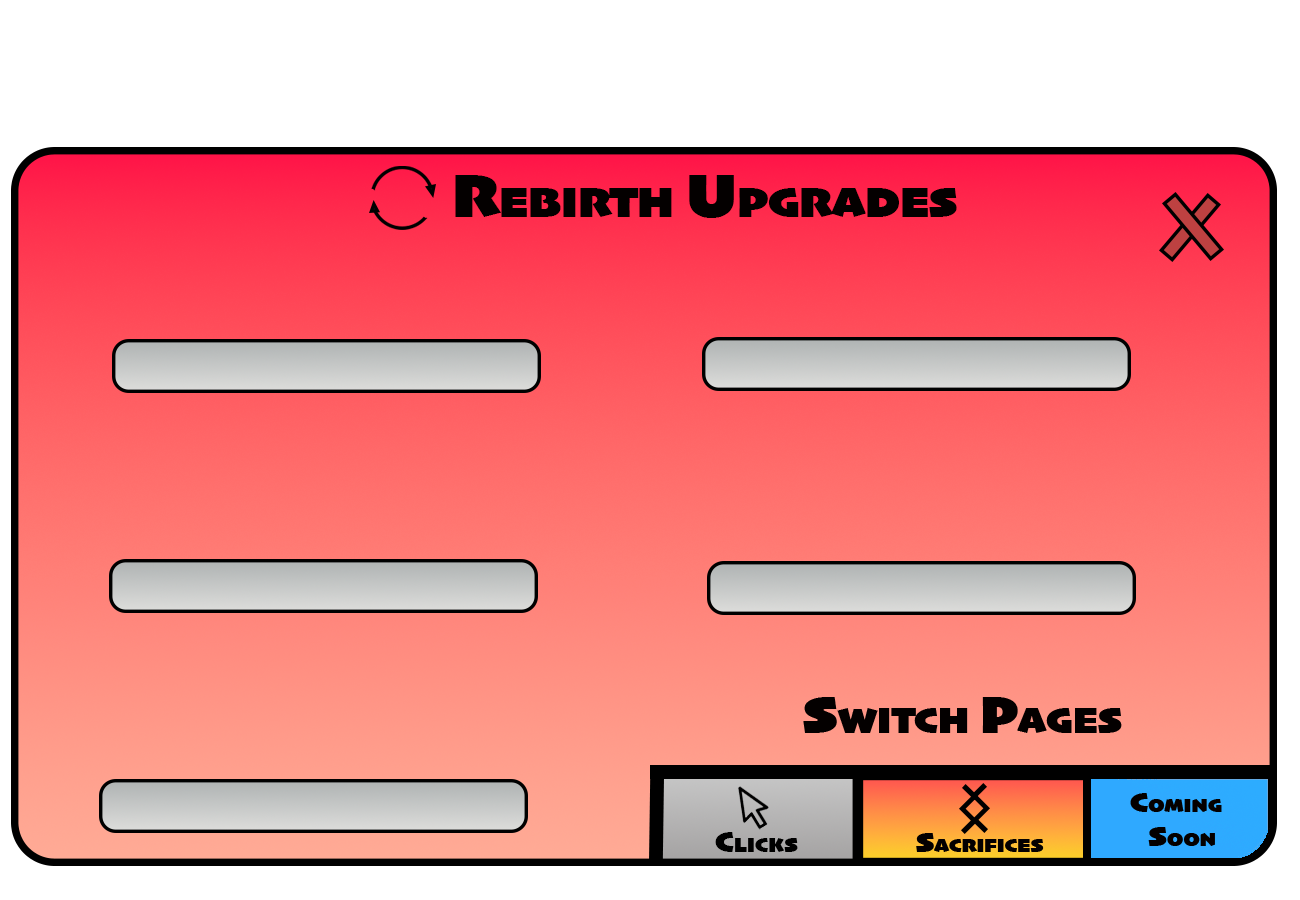
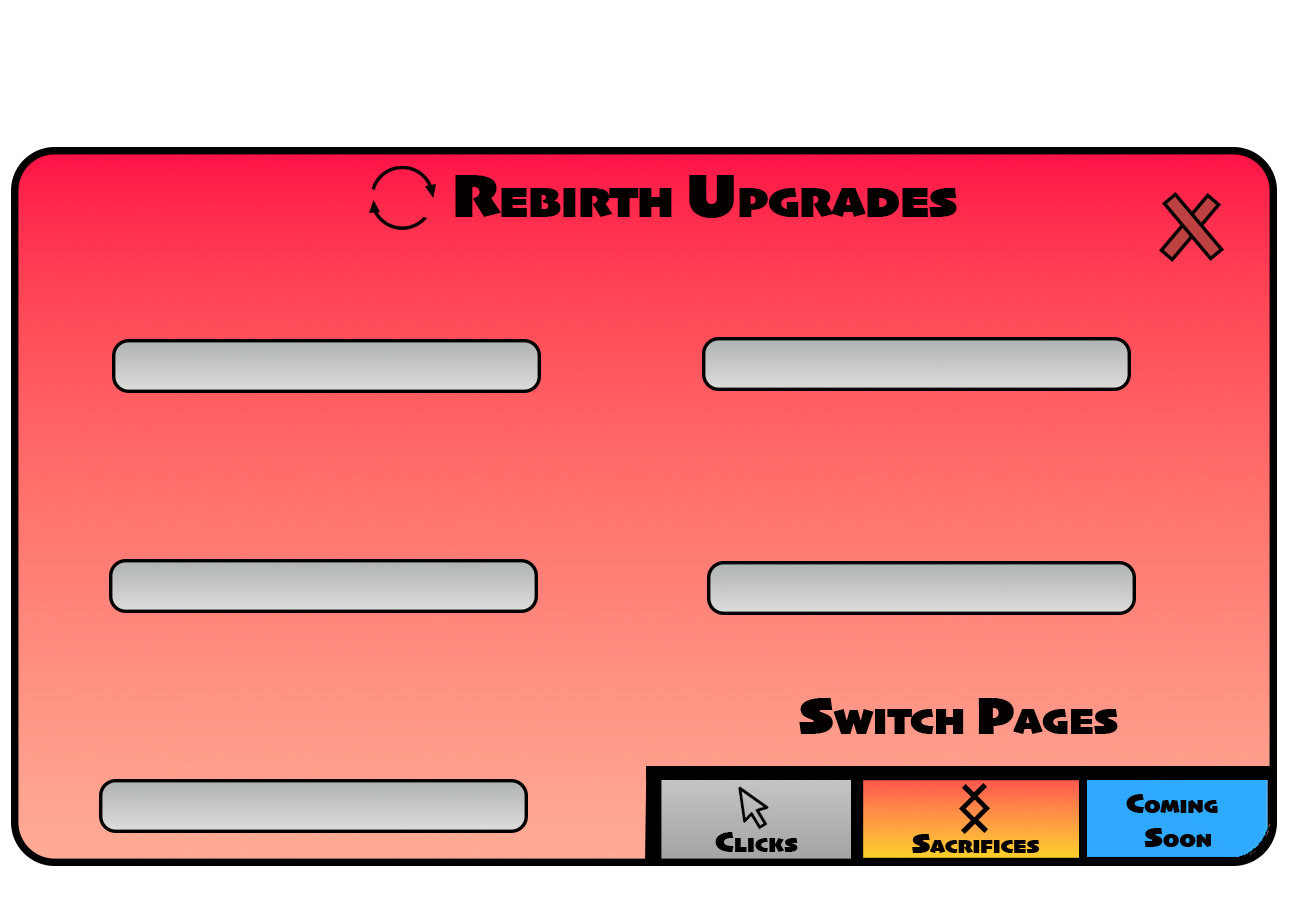
Fixed Rebirth Upgrade text missing Fixed the Clicks and Rebirths Upgrade layout/look to be more alike

diff --git a/main.py b/main.py
@@ -369,7 +369,9 @@ Shop_Menu_Button = pygame.image.load(os.path.join(img_dir, 'Button', "Shop_Butto
 Click_Button = pygame.image.load(os.path.join(img_dir, 'Click_Button', "Click_Button_clicked.png"))
 settings_Button = pygame.image.load(os.path.join(img_dir, 'Button', "Setting_Button.png"))
 ascension_Button = pygame.image.load(os.path.join(img_dir, 'Button', "Ascension_Button.png"))
+
 Shown_Menu = pygame.image.load(os.path.join(img_dir,'Menu',"Click_Upgrades.png"))
+Locked_Image = pygame.image.load(os.path.join(img_dir,'Menu',"Locked.png"))
 
 click_amount = pygame.image.load(os.path.join(img_dir, 'Amount_Shown', "click_amount.png"))
 rebirth_amount = pygame.image.load(os.path.join(img_dir, 'Amount_Shown', "rebirth_amount.png"))
@@ -1376,6 +1378,9 @@ while running:
             canvas.blit(Shown_Menu, (0, 0))
 
         if 1 <= Menu <= 9 :
+            if current_ascension == 0:
+                Locked_Image = pygame.image.load(os.path.join(img_dir, 'Menu', "Locked.png"))
+                canvas.blit(Locked_Image, (0, 0))
 
             Menu_text1.center = (300, 320)
             Menu_text2.center = (300, 540)
@@ -1389,6 +1394,7 @@ while running:
             canvas.blit(menu_text4, Menu_text4)
             canvas.blit(menu_text5, Menu_text5)
             canvas.blit(menu_text6, Menu_text6)
+
 
 #####
 # Hide Ui element when not on the menu
